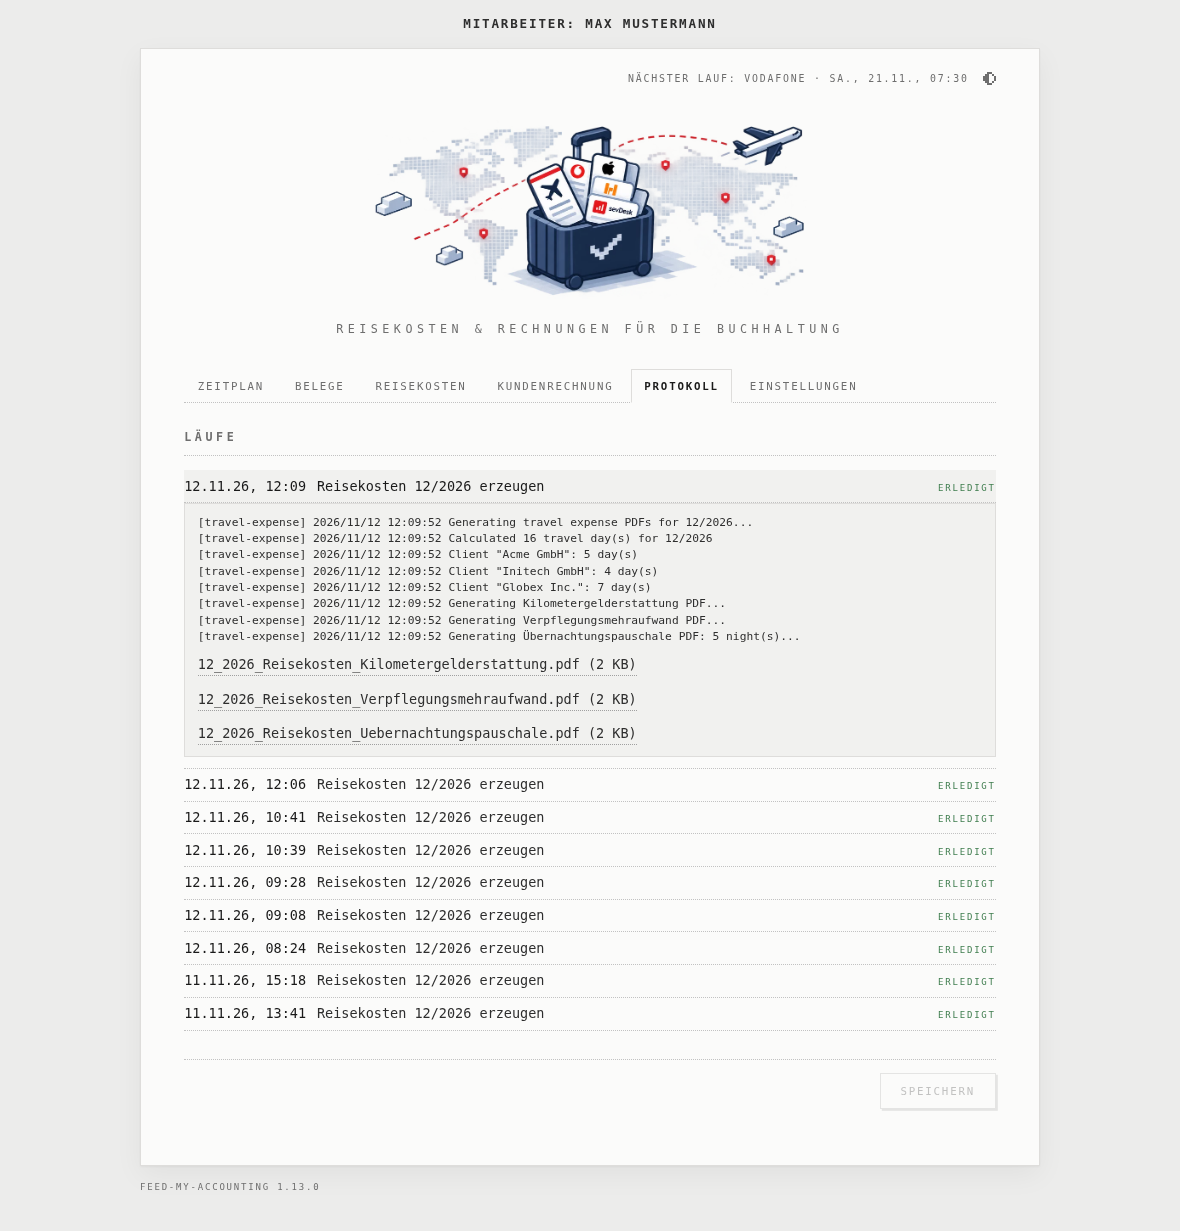
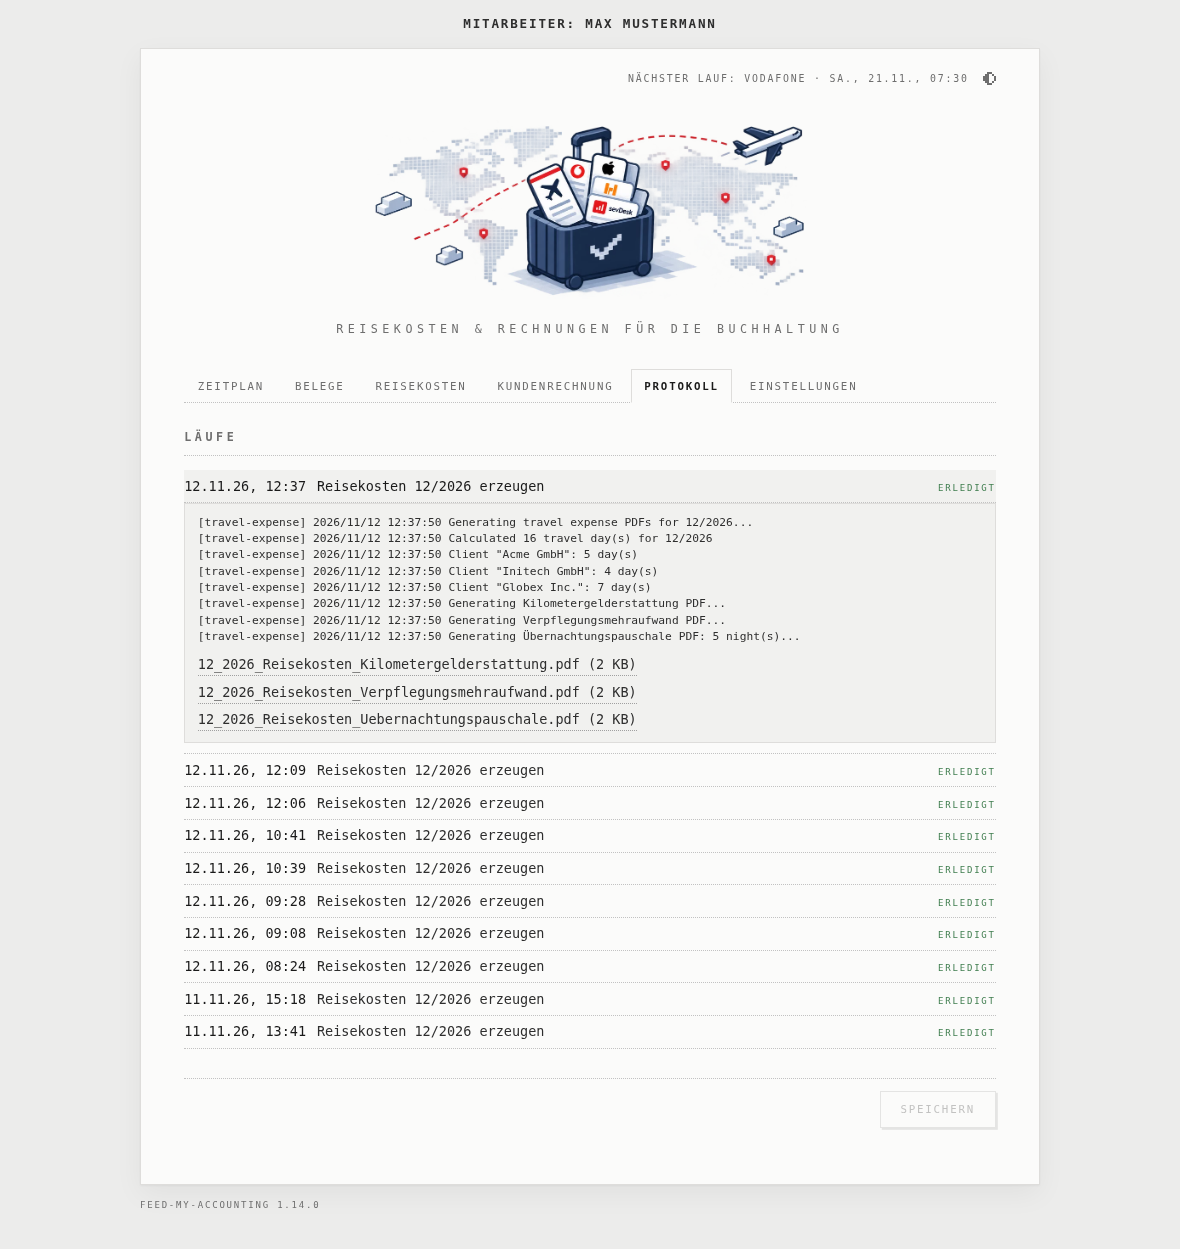
Protokoll: a run's files one under the other
Claude-Session: https://claude.ai/code/session_01FXXeyGX9nkbXjdAycGNCsJ

diff --git a/web/style.css b/web/style.css
@@ -253,7 +253,8 @@ ul.rows li .when { color: var(--headline); }
   margin: 10px 0 0; max-height: 360px; overflow: auto; white-space: pre-wrap; word-break: break-word;
   font-size: 12.5px; line-height: 1.45; letter-spacing: 0;
 }
-.console .files { margin-top: 10px; display: flex; gap: 14px; flex-wrap: wrap; }
+/* One file a line: several Belege of a run, one under the other. */
+.console .files { margin-top: 10px; display: flex; flex-direction: column; align-items: flex-start; gap: 6px; }
 .badge { font-family: var(--mono); font-size: 10px; letter-spacing: 2px; text-transform: uppercase; }
 .badge.ok { color: var(--ok); }
 .badge.failed { color: var(--bad); }
